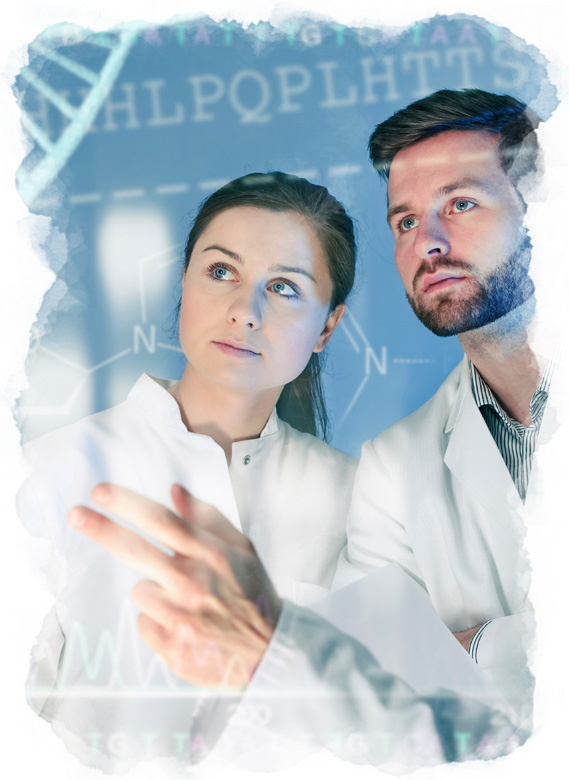
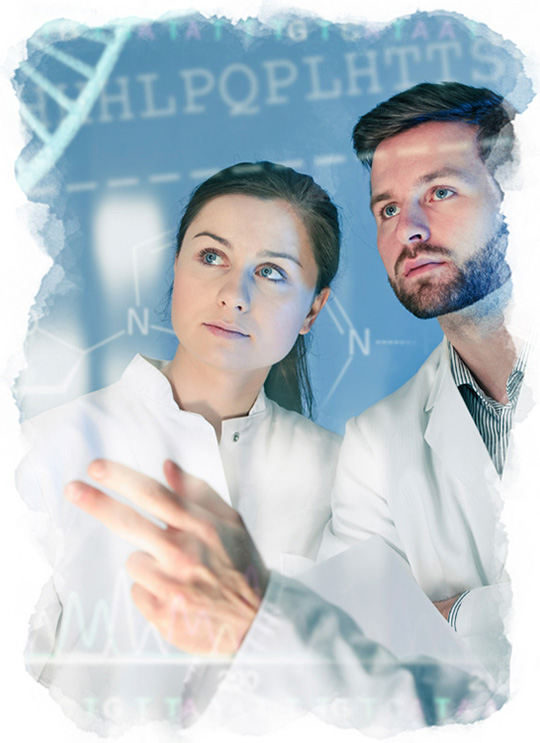
images fixing

diff --git a/style.css b/style.css
@@ -779,10 +779,9 @@ Milon
 */
 .hh-content-sec-9-wrp .hh-two-grid-rgt-img {
     padding-right: 0;
+    margin-top: -20px;
 }
-.hh-content-sec-9-wrp .hh-flt-rgt-img{
-	padding-left: 0;
-}
+
 
 
 @media(max-width: 1199px){
